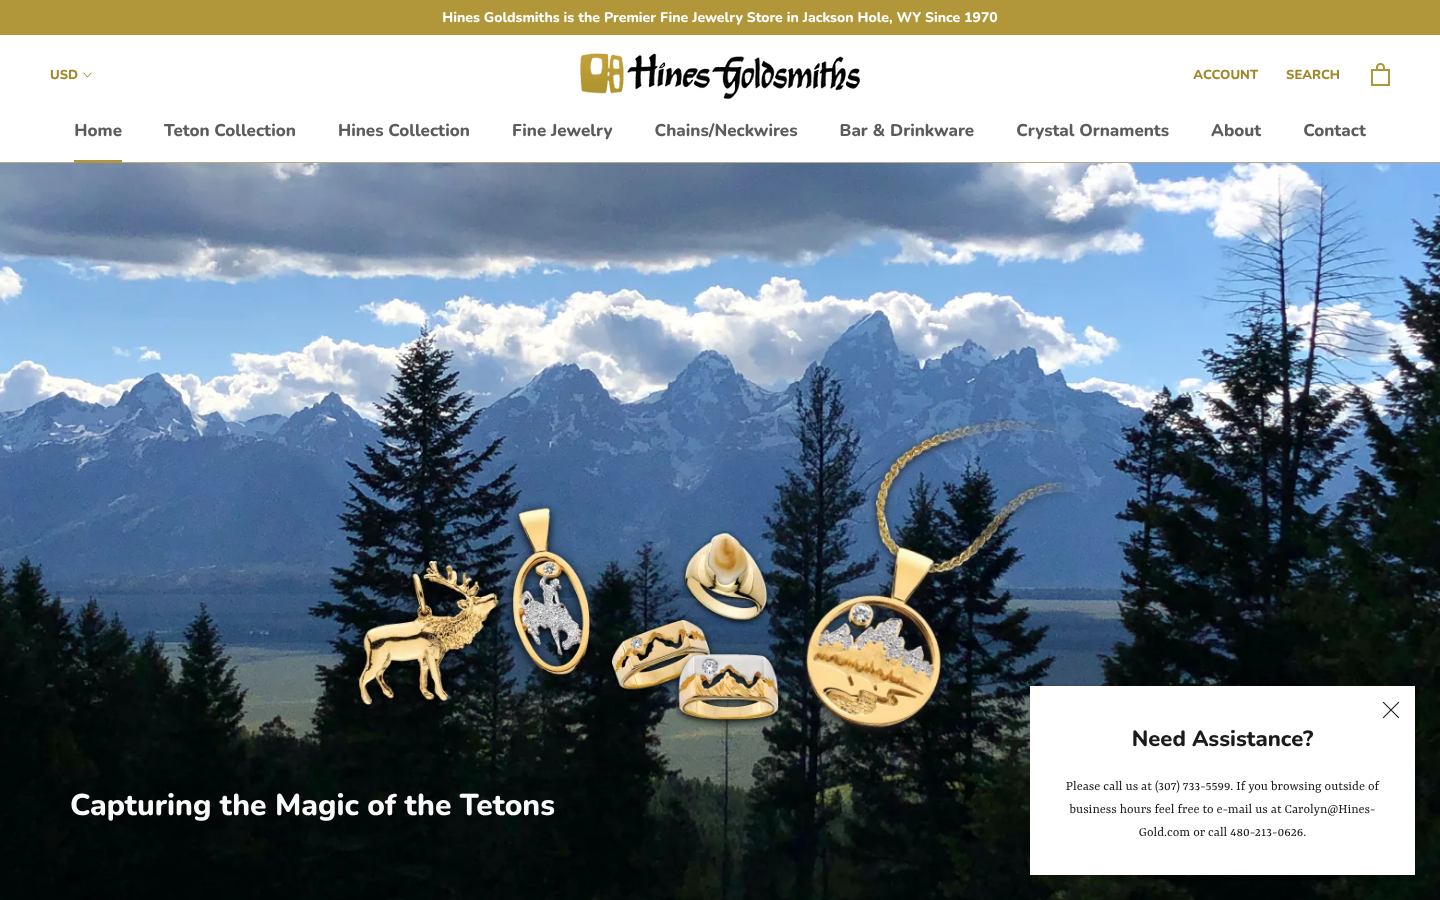
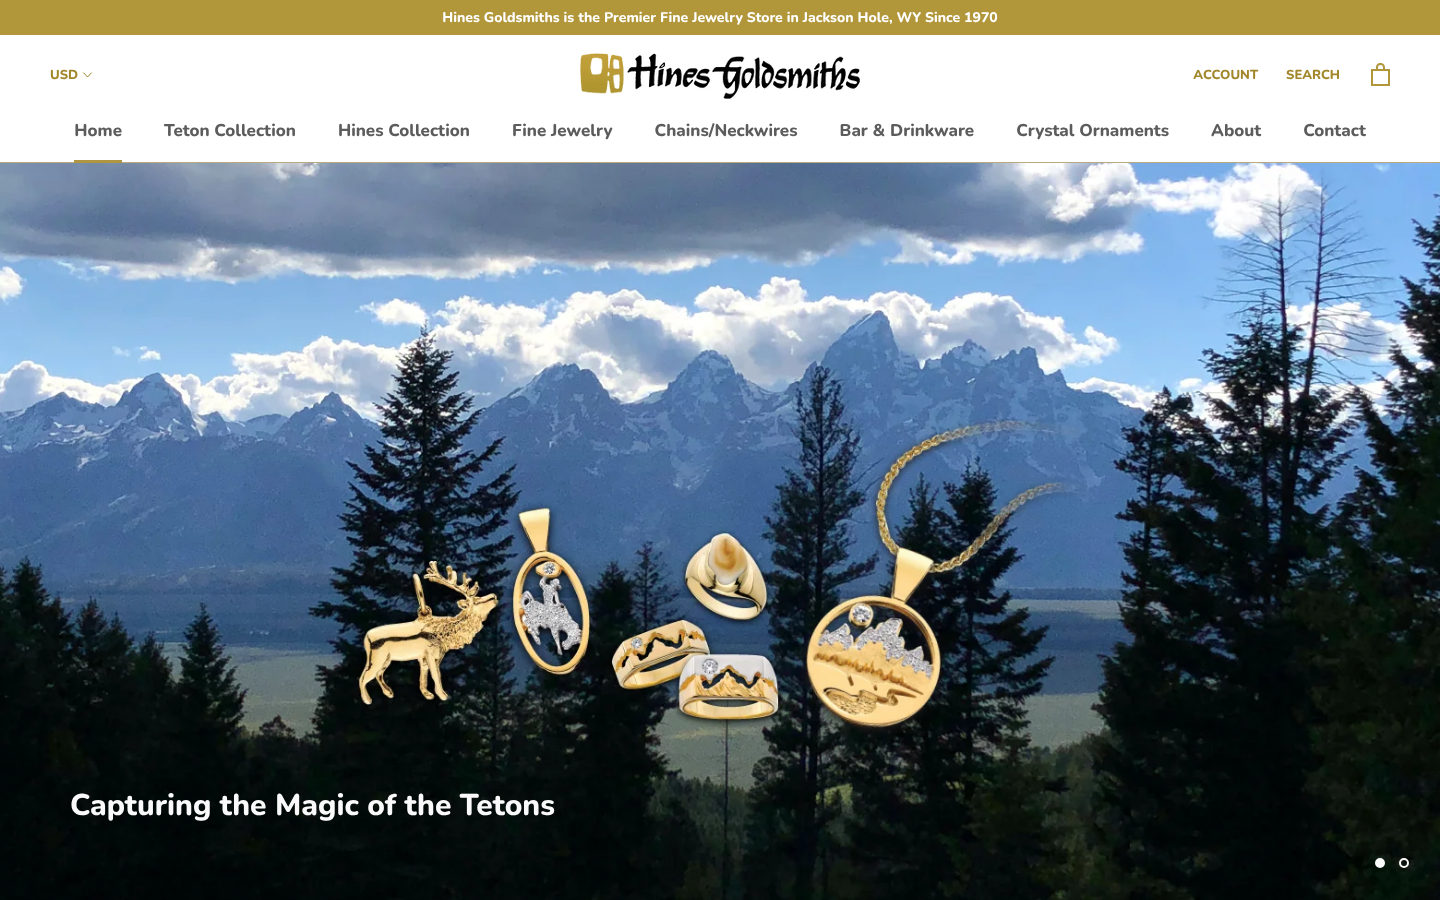
Task #39: retake Hines Goldsmiths home shots with the pop-up closed

Changed region(s): [[0.6875, 0.7467, 1.0, 0.9956]]

diff --git a/docs/work-screens.md b/docs/work-screens.md
@@ -17,8 +17,8 @@ Then run `node scripts/fetch-work-images.mjs` to pull the picked Squarespace ima
 | peace-park | inner | 1440 / 390 (shot at 485) | https://www.thepeacepark.co/gathering | `public/work/peace-park/screen-inner-{1440,485}.png` | Both committed | Captured |
 | mountain-mind-project | home | 1440 / 390 (shot at 485) | https://mountainmindproject.com/ | `public/work/mountain-mind-project/screen-home-{1440,485}.png` | Both committed | Captured |
 | mountain-mind-project | inner | 1440 / 390 (shot at 485) | https://mountainmindproject.com/aboutmountainmindproject | `public/work/mountain-mind-project/screen-inner-{1440,485}.png` | Both committed | Captured |
-| hines-goldsmiths | home | 1440 / 390 (shot at 485) | https://hines-gold.com/ | `public/work/hines-goldsmiths/screen-home-{1440,485}.png` | Both committed; "Need Assistance?" pop-up visible in both | Captured; network never went idle (shot after load + 17 s). The site's "Need Assistance?" pop-up is visible. |
-| hines-goldsmiths | inner | 1440 / 390 (shot at 485) | https://hines-gold.com/collections/teton-pendants | `public/work/hines-goldsmiths/screen-inner-{1440,485}.png` | Both committed | Captured; same pop-up note. |
+| hines-goldsmiths | home | 1440 / 390 (shot at 485) | https://hines-gold.com/ | `public/work/hines-goldsmiths/screen-home-{1440,485}.png` | Both committed; retaken Nov 17 with the "Need Assistance?" pop-up closed | Captured; network never went idle. The site's "Need Assistance?" pop-up was closed before the shots (nothing submitted). |
+| hines-goldsmiths | inner | 1440 / 390 (shot at 485) | https://hines-gold.com/collections/teton-pendants | `public/work/hines-goldsmiths/screen-inner-{1440,485}.png` | Both committed | Captured; no pop-up in either shot. |
 | jackson-hole-public-art | home | 1440 / 390 (shot at 485) | https://www.jhpublicart.org/ | `public/work/jackson-hole-public-art/screen-home-{1440,485}.png` | Both committed | Captured |
 | jackson-hole-public-art | inner | 1440 / 390 (shot at 485) | https://www.jhpublicart.org/about | `public/work/jackson-hole-public-art/screen-inner-{1440,485}.png` | Both committed | Captured |
 | animal-hospital-of-boone | home | 1440 / 390 (shot at 485) | https://www.animalhospitalboone.com/ | `public/work/animal-hospital-of-boone/screen-home-{1440,485}.png` | Both committed | Captured |
